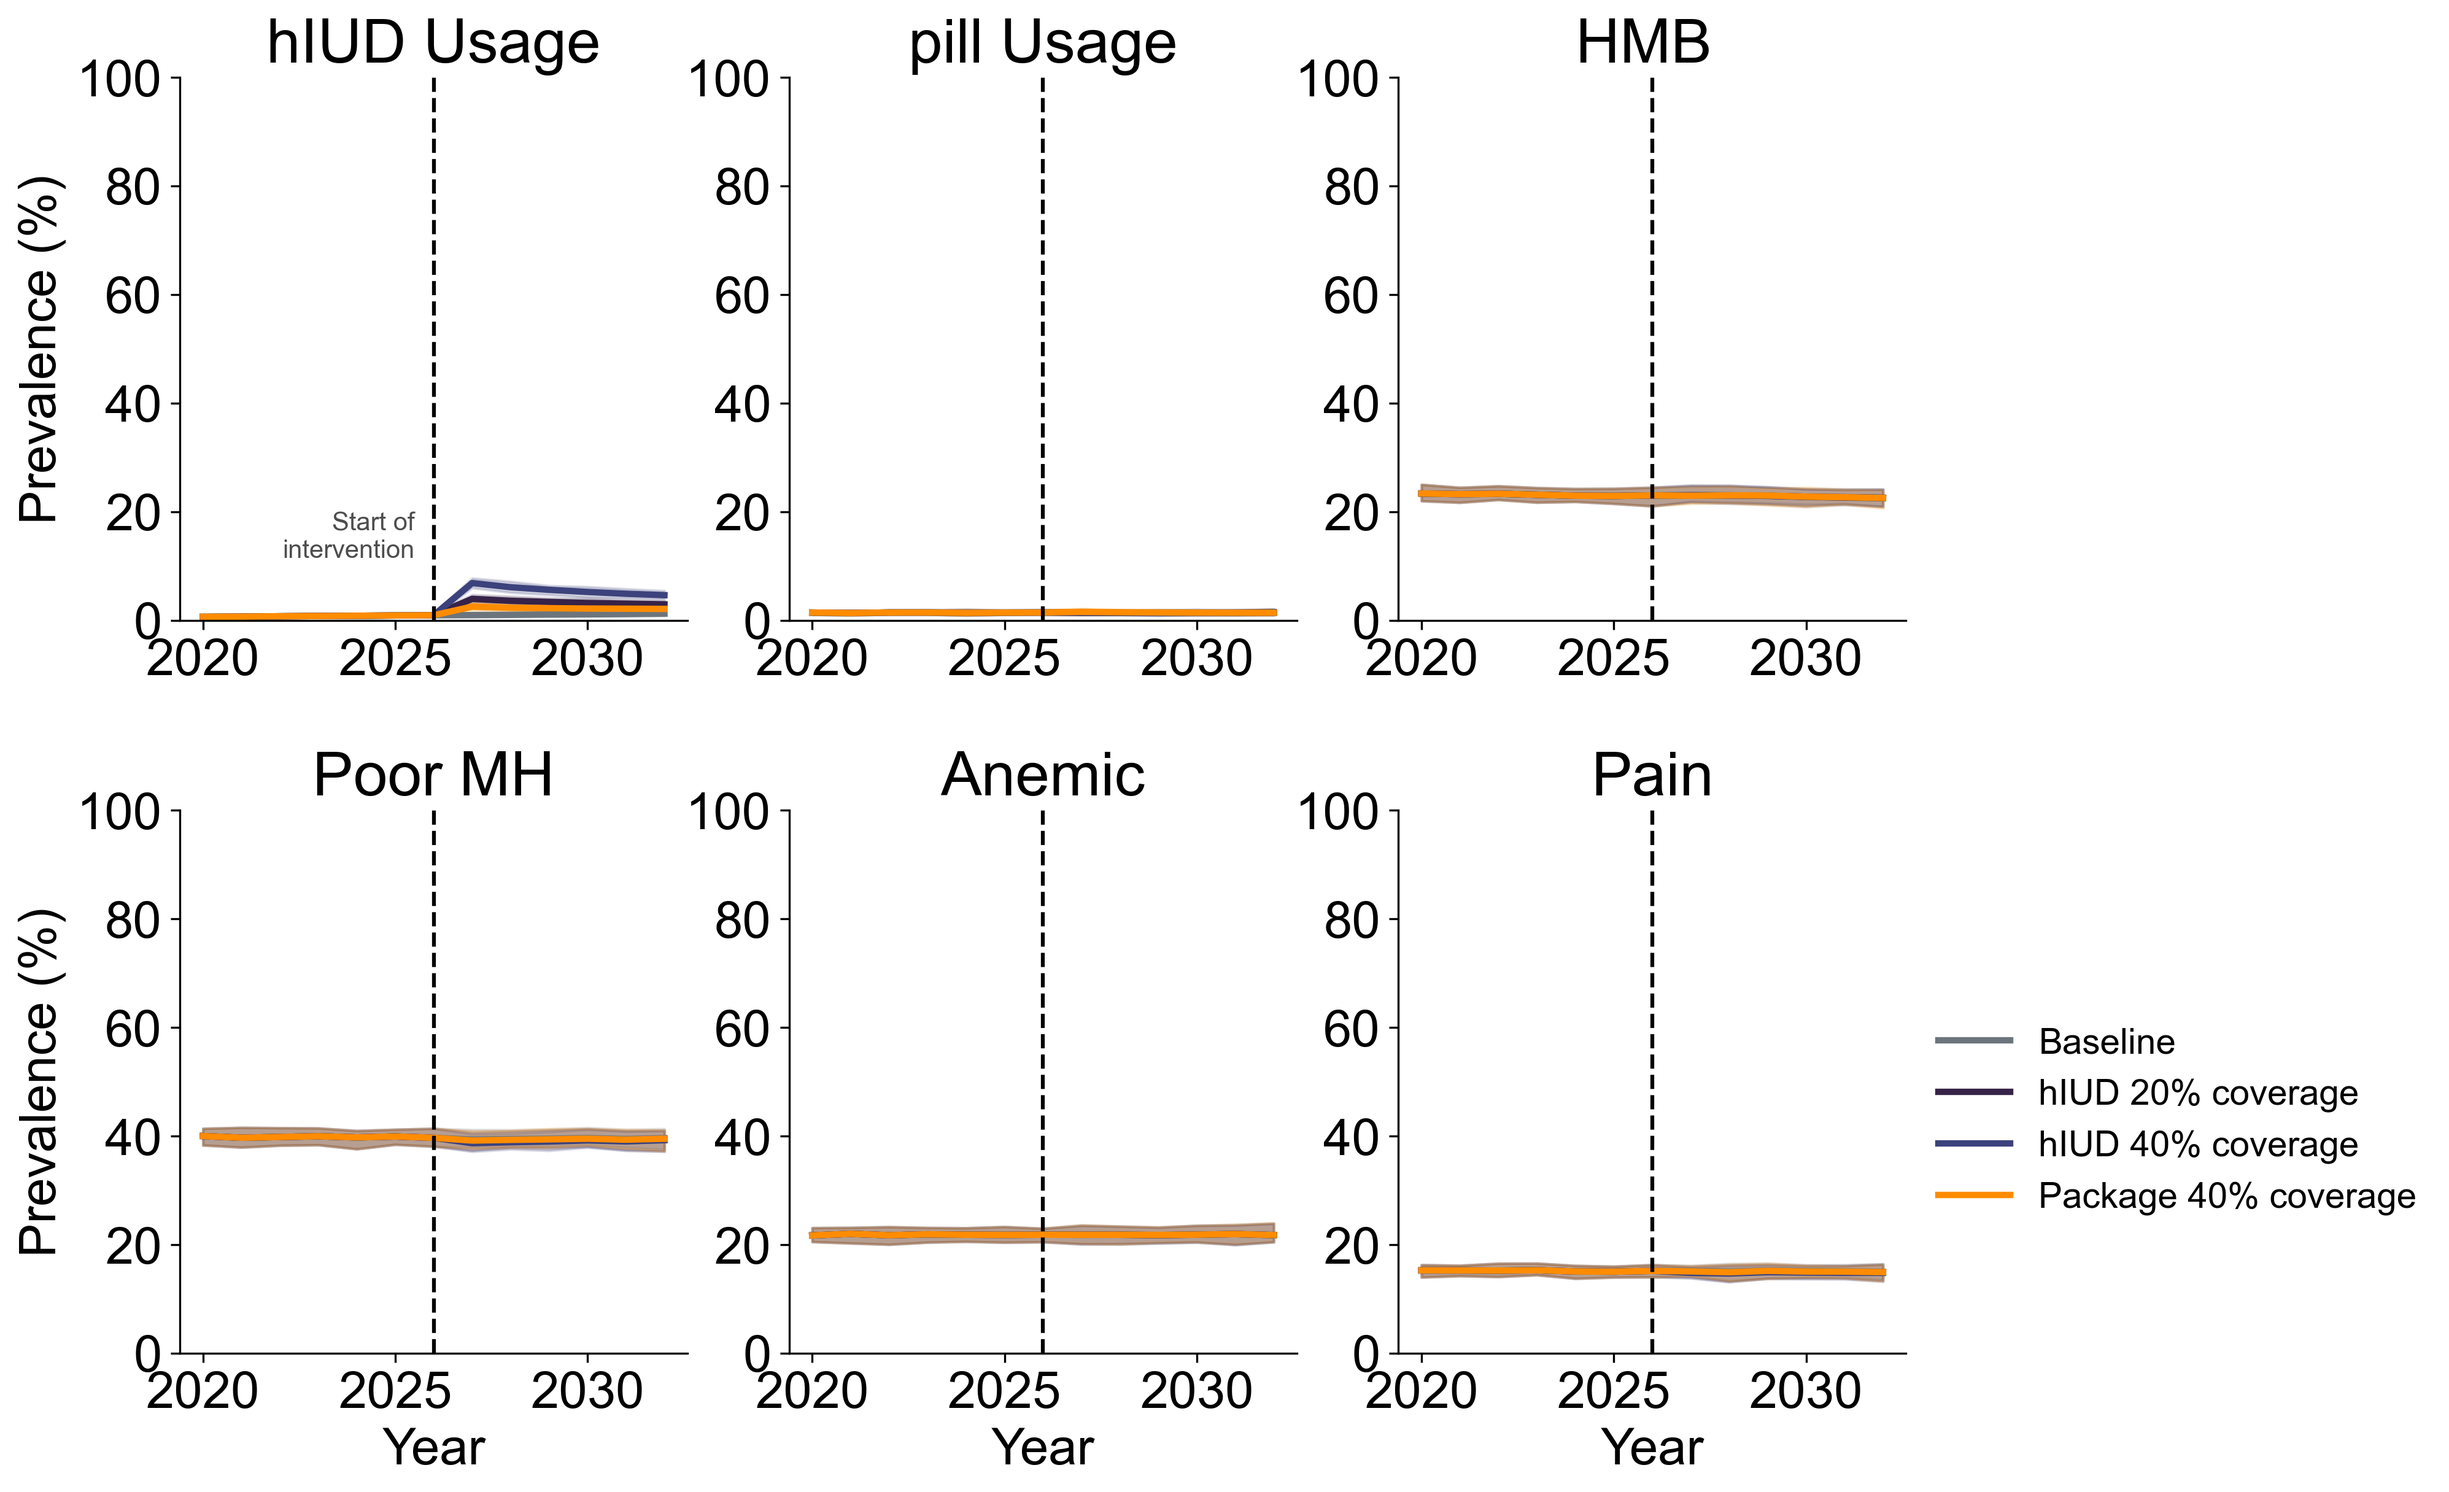
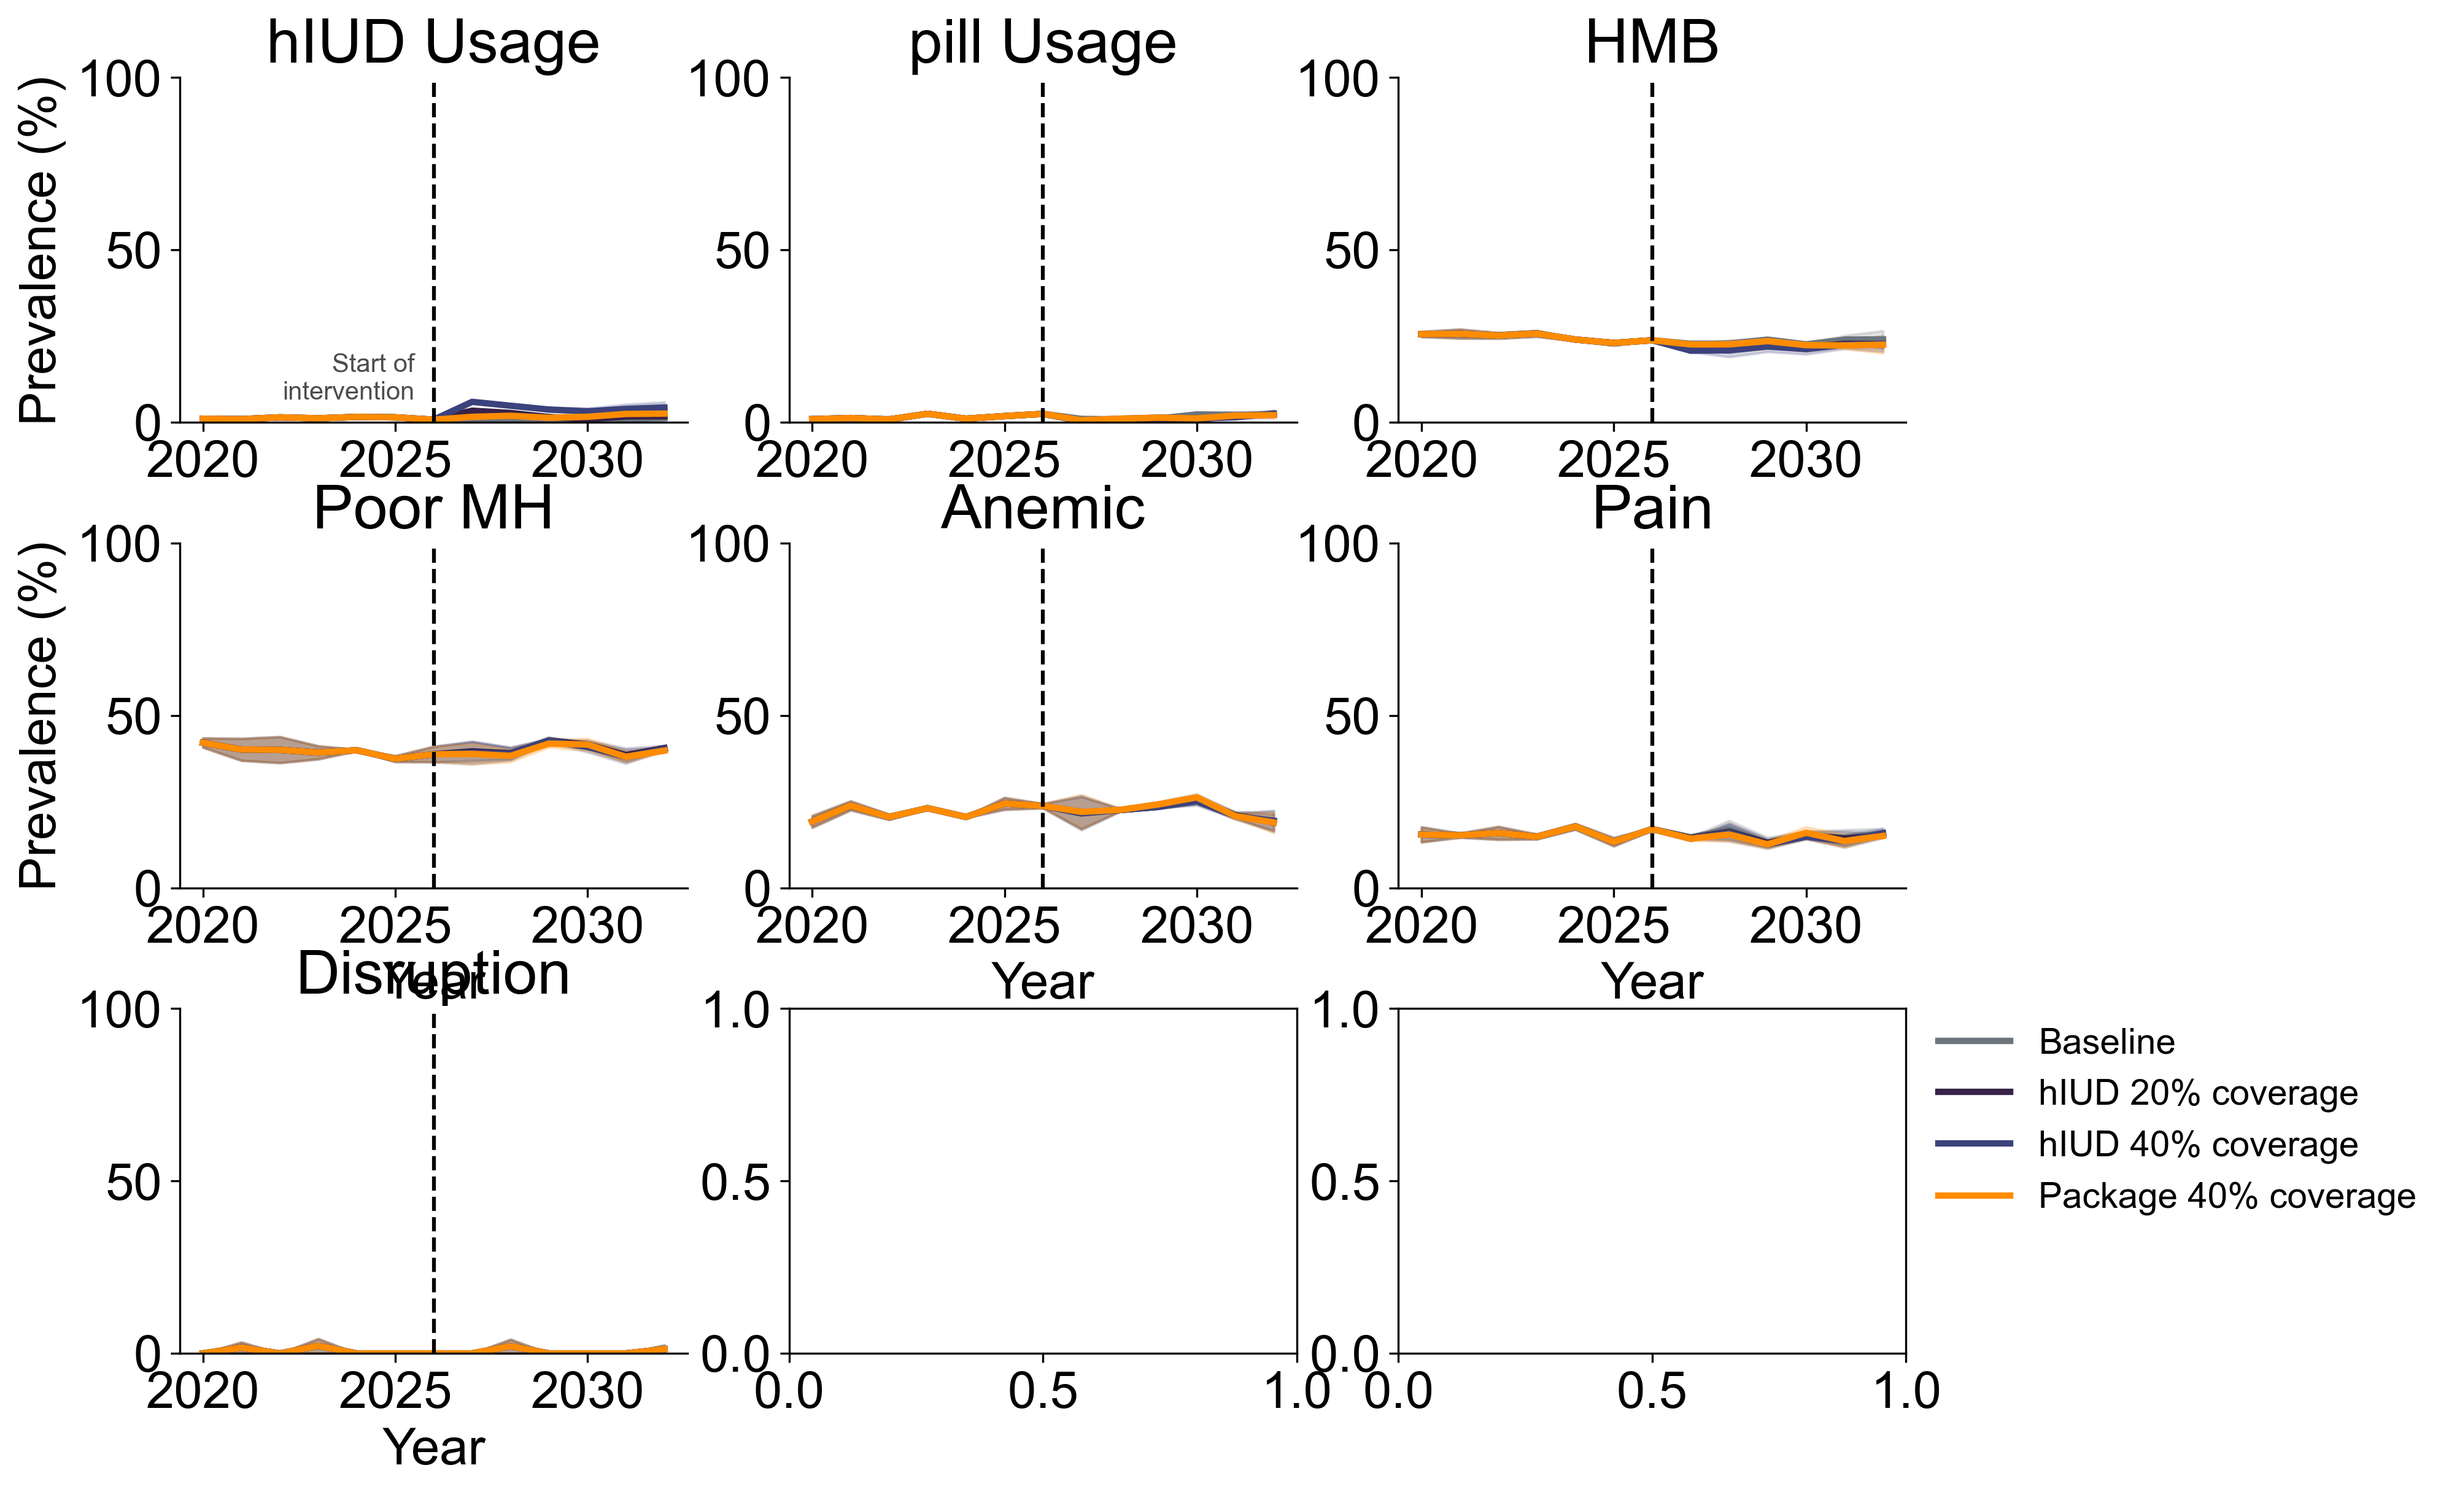
add intervention effect on school disruption

diff --git a/run_kenya_nsaid_added.py b/run_kenya_nsaid_added.py
@@ -99,7 +99,7 @@ def make_sim(pars=None, stop=2021):
     sim = fp.Sim(
         start=2000,
         stop=stop,
-        n_agents=10000,
+        n_agents=1000,
         location='kenya',
         pars=pars,
         analyzers=[fp.cpr_by_age(), fp.method_mix_by_age()],
@@ -462,7 +462,7 @@ if __name__ == '__main__':
 
     if 'run_stochastic' in to_run:
         # run the scenarios for multiple random seeds
-        n_seeds = 50
+        n_seeds = 2
         
         colors = {
             'hiud20':  '#372248',    # dark purple
@@ -560,7 +560,7 @@ if __name__ == '__main__':
         
         # Initialize dictionaries to store results for each scenario
         scenarios = ['baseline', 'hiud20', 'hiud40', 'txa20', 'pill20','nsaid20' , 'p20', 'p40', 'p60']
-        res_to_plot = ['hiud','pill', 'hmb', 'poor_mh', 'anemic', 'pain', , 'prop_disrupted']
+        res_to_plot = ['hiud','pill', 'hmb', 'poor_mh', 'anemic', 'pain', 'prop_disrupted']
         labels = ['hIUD Usage','pill Usage', 'HMB ', 'Poor MH', 'Anemic', 'Pain', 'Disruption']    
         
         # Dictionary to store all runs
@@ -617,6 +617,8 @@ if __name__ == '__main__':
             stats=stats, years=years, si=si, colors=colors,
             fixed_scale=False,
             plotfolder=plotfolder_stochastic,
+            res_to_plot=['hiud', 'pill', 'hmb', 'poor_mh', 'anemic', 'pain', 'prop_disrupted'],  
+            labels=['hIUD Usage', 'pill Usage', 'HMB', 'Poor MH', 'Anemic', 'Pain', 'Disruption'],  
             filename='hmb_scenario-package_stochastic_results.png'
         )
         
@@ -625,6 +627,8 @@ if __name__ == '__main__':
             stats=stats, years=years, si=si, colors=colors,
             fixed_scale=True,
             plotfolder=plotfolder_stochastic,
+            res_to_plot=['hiud', 'pill', 'hmb', 'poor_mh', 'anemic', 'pain', 'prop_disrupted'],  
+            labels=['hIUD Usage', 'pill Usage', 'HMB', 'Poor MH', 'Anemic', 'Pain', 'Disruption'],  
             filename='hmb_scenario-package_stochastic_results_y-axis-scaled-0-100.png'
         )
         
@@ -637,6 +641,8 @@ if __name__ == '__main__':
             scenarios_to_plot=scenarios_subset,
             fixed_scale=False,
             plotfolder=plotfolder_stochastic,
+            res_to_plot=['hiud', 'pill', 'hmb', 'poor_mh', 'anemic', 'pain', 'prop_disrupted'],  
+            labels=['hIUD Usage', 'pill Usage', 'HMB', 'Poor MH', 'Anemic', 'Pain', 'Disruption'],  
             filename='hmb_package_stochastic_results_subset-scenarios.png'
         )
         
@@ -646,15 +652,29 @@ if __name__ == '__main__':
             scenarios_to_plot=scenarios_subset,
             fixed_scale=True,
             plotfolder=plotfolder_stochastic,
+            res_to_plot=['hiud', 'pill', 'hmb', 'poor_mh', 'anemic', 'pain', 'prop_disrupted'],  
+            labels=['hIUD Usage', 'pill Usage', 'HMB', 'Poor MH', 'Anemic', 'Pain', 'Disruption'],  
             filename='hmb_package_stochastic_results_subset-scenarios_y-axis-scaled-0-100.png'
         )
         
         
-        
+        # define the subset of scenarios
+        scenarios_subset = ['baseline', 'nsaid20']
+        # make the plots
+        plot_stochastic_results(
+            stats=stats, years=years, si=si, colors=colors,
+            scenarios_to_plot=scenarios_subset,
+            fixed_scale=False,
+            plotfolder=plotfolder_stochastic,
+            res_to_plot=['hiud', 'pill', 'hmb', 'poor_mh', 'anemic', 'pain', 'prop_disrupted'],  
+            labels=['hIUD Usage', 'pill Usage', 'HMB', 'Poor MH', 'Anemic', 'Pain', 'Disruption'],  
+           filename='hmb_package_stochastic_results_subset-scenarios2.png'
+        )
+   
     
     if 'run_coverage_sweep' in to_run:
                 
-        n_seeds = 20
+        n_seeds = 2
         prob_offer_values = [0.25, 0.5, 0.75]
         prob_accept_values = [0.25, 0.5, 0.75]
         res_keys = ['hiud', 'pill', 'hmb', 'poor_mh', 'anemic', 'pain', 'prop_disrupted']
@@ -729,7 +749,7 @@ if __name__ == '__main__':
         
         
         # load
-        all_results = sc.loadobj(outfolder + 'uptake-sweep_results-stats.obj')
+        all_results = sc.loadobj(outfolder_stochastic + 'uptake-sweep_results-stats.obj')
         
         # Make heatmap
         fig, axes, change_matrices = plot_parameter_sweep_heatmaps_seaborn(
